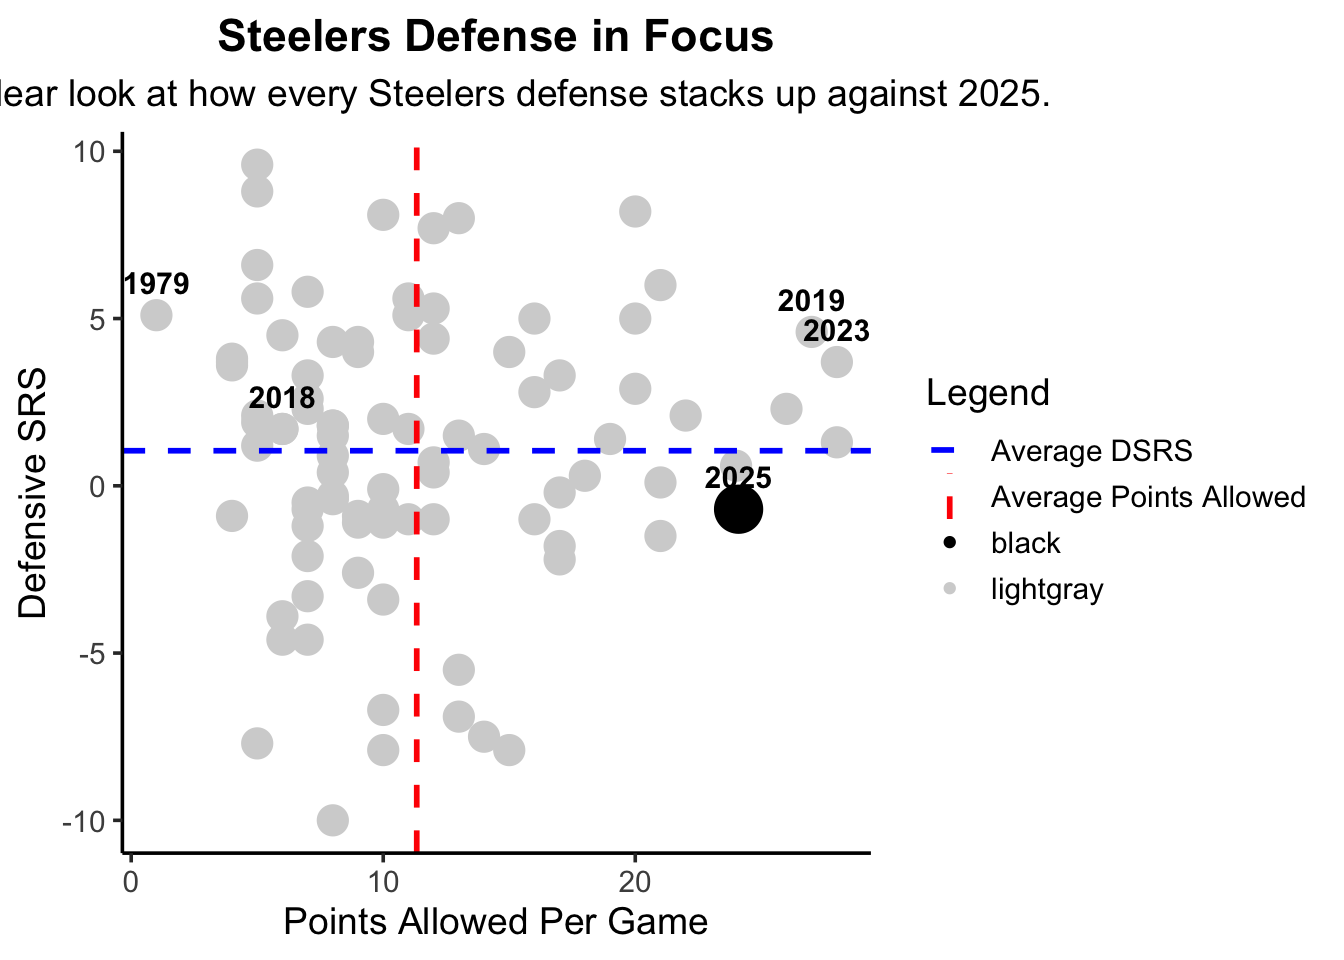
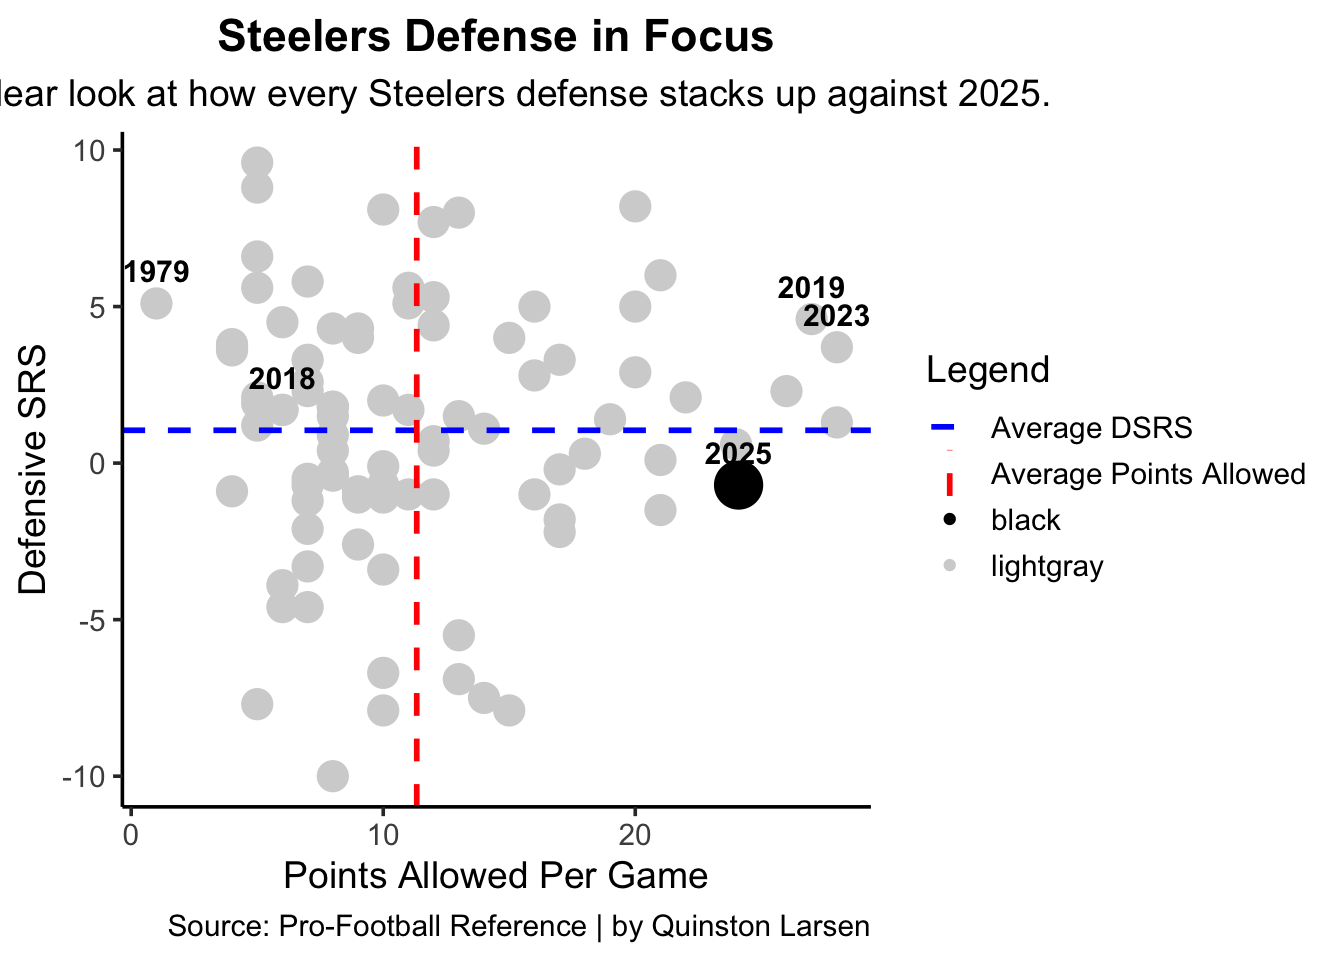
Fixes

diff --git a/posts/Steelers-defense/index.html b/posts/Steelers-defense/index.html
@@ -156,9 +156,9 @@ pre > code.sourceCode > span > a:first-child::before { text-decoration: underlin
     <div class="quarto-title column-body">
       <h1 class="title">When the Steel Curtain Falters: Steelers’ 2025 Defensive Woes</h1>
                                 <div class="quarto-categories">
-                <div class="quarto-category">football</div>
-                <div class="quarto-category">Nebraska</div>
-                <div class="quarto-category">running back</div>
+                <div class="quarto-category">NFL</div>
+                <div class="quarto-category">Steelers</div>
+                <div class="quarto-category">Defense</div>
               </div>
                   </div>
   </div>
@@ -195,7 +195,7 @@ pre > code.sourceCode > span > a:first-child::before { text-decoration: underlin
 
 
 
-<p>Steelers Defense at an All-Time Low? A Deep Dive Through Five Decades of History</p>
+<p>Steelers Defense at an All-Time Low? A Deep Dive Through Five Decades of History.</p>
 <p>For generations, the Pittsburgh Steelers embodied one unmistakable identity: hard-nosed, suffocating defense. It’s the brand that defined the city, the franchise, and the fan base. For years, you didn’t need a superstar quarterback or a flashy offense. If you wore black and gold, you won games by hitting harder, tackling smarter, and outworking everyone on the field.</p>
 <p>But today, something feels different.</p>
 <p>Something feels broken.</p>
@@ -286,19 +286,20 @@ pre > code.sourceCode > span > a:first-child::before { text-decoration: underlin
 <span id="cb2-34"><a href="#cb2-34" aria-hidden="true" tabindex="-1"></a>    <span class="at">title =</span> <span class="st">"Best vs Worst Steelers Defensive Seasons"</span>,</span>
 <span id="cb2-35"><a href="#cb2-35" aria-hidden="true" tabindex="-1"></a>    <span class="at">subtitlte =</span> <span class="st">"Comparing historic dominance with modern struggles."</span>,</span>
 <span id="cb2-36"><a href="#cb2-36" aria-hidden="true" tabindex="-1"></a>    <span class="at">x =</span> <span class="st">"Year"</span>,</span>
-<span id="cb2-37"><a href="#cb2-37" aria-hidden="true" tabindex="-1"></a>    <span class="at">y =</span> <span class="st">"Points Allowed Per Game"</span></span>
-<span id="cb2-38"><a href="#cb2-38" aria-hidden="true" tabindex="-1"></a>  ) <span class="sc">+</span></span>
-<span id="cb2-39"><a href="#cb2-39" aria-hidden="true" tabindex="-1"></a>  </span>
-<span id="cb2-40"><a href="#cb2-40" aria-hidden="true" tabindex="-1"></a>  <span class="fu">theme_classic</span>(<span class="at">base_size =</span> <span class="dv">14</span>) <span class="sc">+</span></span>
-<span id="cb2-41"><a href="#cb2-41" aria-hidden="true" tabindex="-1"></a>  <span class="fu">theme</span>(</span>
-<span id="cb2-42"><a href="#cb2-42" aria-hidden="true" tabindex="-1"></a>    <span class="at">plot.title =</span> <span class="fu">element_text</span>(<span class="at">face =</span> <span class="st">"bold"</span>, <span class="at">hjust =</span> <span class="fl">0.5</span>),</span>
-<span id="cb2-43"><a href="#cb2-43" aria-hidden="true" tabindex="-1"></a>    <span class="at">axis.text.x =</span> <span class="fu">element_text</span>(<span class="at">angle =</span> <span class="dv">45</span>, <span class="at">hjust =</span> <span class="dv">1</span>),</span>
-<span id="cb2-44"><a href="#cb2-44" aria-hidden="true" tabindex="-1"></a>    <span class="at">legend.position =</span> <span class="st">"none"</span>,</span>
-<span id="cb2-45"><a href="#cb2-45" aria-hidden="true" tabindex="-1"></a>    <span class="at">axis.line =</span> <span class="fu">element_line</span>(<span class="at">color =</span> <span class="st">"black"</span>),</span>
-<span id="cb2-46"><a href="#cb2-46" aria-hidden="true" tabindex="-1"></a>    <span class="at">axis.ticks =</span> <span class="fu">element_line</span>(<span class="at">color =</span> <span class="st">"black"</span>)</span>
-<span id="cb2-47"><a href="#cb2-47" aria-hidden="true" tabindex="-1"></a>  )</span>
-<span id="cb2-48"><a href="#cb2-48" aria-hidden="true" tabindex="-1"></a></span>
-<span id="cb2-49"><a href="#cb2-49" aria-hidden="true" tabindex="-1"></a><span class="fu">print</span>(plot_bar)</span></code></pre></div><button title="Copy to Clipboard" class="code-copy-button"><i class="bi"></i></button></div>
+<span id="cb2-37"><a href="#cb2-37" aria-hidden="true" tabindex="-1"></a>    <span class="at">y =</span> <span class="st">"Points Allowed Per Game"</span> ,</span>
+<span id="cb2-38"><a href="#cb2-38" aria-hidden="true" tabindex="-1"></a>    <span class="at">caption =</span> <span class="st">"Source: Pro-Football Reference  | by Quinston Larsen"</span></span>
+<span id="cb2-39"><a href="#cb2-39" aria-hidden="true" tabindex="-1"></a>  ) <span class="sc">+</span></span>
+<span id="cb2-40"><a href="#cb2-40" aria-hidden="true" tabindex="-1"></a>  </span>
+<span id="cb2-41"><a href="#cb2-41" aria-hidden="true" tabindex="-1"></a>  <span class="fu">theme_classic</span>(<span class="at">base_size =</span> <span class="dv">14</span>) <span class="sc">+</span></span>
+<span id="cb2-42"><a href="#cb2-42" aria-hidden="true" tabindex="-1"></a>  <span class="fu">theme</span>(</span>
+<span id="cb2-43"><a href="#cb2-43" aria-hidden="true" tabindex="-1"></a>    <span class="at">plot.title =</span> <span class="fu">element_text</span>(<span class="at">face =</span> <span class="st">"bold"</span>, <span class="at">hjust =</span> <span class="fl">0.5</span>),</span>
+<span id="cb2-44"><a href="#cb2-44" aria-hidden="true" tabindex="-1"></a>    <span class="at">axis.text.x =</span> <span class="fu">element_text</span>(<span class="at">angle =</span> <span class="dv">45</span>, <span class="at">hjust =</span> <span class="dv">1</span>),</span>
+<span id="cb2-45"><a href="#cb2-45" aria-hidden="true" tabindex="-1"></a>    <span class="at">legend.position =</span> <span class="st">"none"</span>,</span>
+<span id="cb2-46"><a href="#cb2-46" aria-hidden="true" tabindex="-1"></a>    <span class="at">axis.line =</span> <span class="fu">element_line</span>(<span class="at">color =</span> <span class="st">"black"</span>),</span>
+<span id="cb2-47"><a href="#cb2-47" aria-hidden="true" tabindex="-1"></a>    <span class="at">axis.ticks =</span> <span class="fu">element_line</span>(<span class="at">color =</span> <span class="st">"black"</span>)</span>
+<span id="cb2-48"><a href="#cb2-48" aria-hidden="true" tabindex="-1"></a>  )</span>
+<span id="cb2-49"><a href="#cb2-49" aria-hidden="true" tabindex="-1"></a></span>
+<span id="cb2-50"><a href="#cb2-50" aria-hidden="true" tabindex="-1"></a><span class="fu">print</span>(plot_bar)</span></code></pre></div><button title="Copy to Clipboard" class="code-copy-button"><i class="bi"></i></button></div>
 </details>
 <div class="cell-output-display">
 <div>
@@ -344,17 +345,18 @@ pre > code.sourceCode > span > a:first-child::before { text-decoration: underlin
 <span id="cb3-26"><a href="#cb3-26" aria-hidden="true" tabindex="-1"></a>    <span class="at">subtitle =</span> <span class="st">"A detailed look at the Pittsburgh's Defensive Simple Rating System"</span>,</span>
 <span id="cb3-27"><a href="#cb3-27" aria-hidden="true" tabindex="-1"></a>    <span class="at">x =</span> <span class="st">"Year"</span>,</span>
 <span id="cb3-28"><a href="#cb3-28" aria-hidden="true" tabindex="-1"></a>    <span class="at">y =</span> <span class="st">"Defensive Simple Rating System Score"</span>,</span>
-<span id="cb3-29"><a href="#cb3-29" aria-hidden="true" tabindex="-1"></a>    <span class="at">color =</span> <span class="st">"Team"</span></span>
-<span id="cb3-30"><a href="#cb3-30" aria-hidden="true" tabindex="-1"></a>  ) <span class="sc">+</span></span>
-<span id="cb3-31"><a href="#cb3-31" aria-hidden="true" tabindex="-1"></a>  </span>
-<span id="cb3-32"><a href="#cb3-32" aria-hidden="true" tabindex="-1"></a>  <span class="fu">theme_classic</span>(<span class="at">base_size =</span> <span class="dv">14</span>) <span class="sc">+</span></span>
-<span id="cb3-33"><a href="#cb3-33" aria-hidden="true" tabindex="-1"></a>  <span class="fu">theme</span>(</span>
-<span id="cb3-34"><a href="#cb3-34" aria-hidden="true" tabindex="-1"></a>    <span class="at">plot.title =</span> <span class="fu">element_text</span>(<span class="at">face =</span> <span class="st">"bold"</span>, <span class="at">hjust =</span> <span class="fl">0.5</span>),</span>
-<span id="cb3-35"><a href="#cb3-35" aria-hidden="true" tabindex="-1"></a>    <span class="at">plot.subtitle =</span> <span class="fu">element_text</span>(<span class="at">hjust =</span> <span class="fl">0.5</span>),</span>
-<span id="cb3-36"><a href="#cb3-36" aria-hidden="true" tabindex="-1"></a>    <span class="at">axis.text.x =</span> <span class="fu">element_text</span>(<span class="at">angle =</span> <span class="dv">45</span>, <span class="at">hjust =</span> <span class="dv">1</span>)</span>
-<span id="cb3-37"><a href="#cb3-37" aria-hidden="true" tabindex="-1"></a>  )</span>
-<span id="cb3-38"><a href="#cb3-38" aria-hidden="true" tabindex="-1"></a></span>
-<span id="cb3-39"><a href="#cb3-39" aria-hidden="true" tabindex="-1"></a><span class="fu">print</span>(plot_line)</span></code></pre></div><button title="Copy to Clipboard" class="code-copy-button"><i class="bi"></i></button></div>
+<span id="cb3-29"><a href="#cb3-29" aria-hidden="true" tabindex="-1"></a>    <span class="at">color =</span> <span class="st">"Team"</span> ,</span>
+<span id="cb3-30"><a href="#cb3-30" aria-hidden="true" tabindex="-1"></a>    <span class="at">caption =</span> <span class="st">"Source: Pro-Football Reference  | by Quinston Larsen"</span></span>
+<span id="cb3-31"><a href="#cb3-31" aria-hidden="true" tabindex="-1"></a>  ) <span class="sc">+</span></span>
+<span id="cb3-32"><a href="#cb3-32" aria-hidden="true" tabindex="-1"></a>  </span>
+<span id="cb3-33"><a href="#cb3-33" aria-hidden="true" tabindex="-1"></a>  <span class="fu">theme_classic</span>(<span class="at">base_size =</span> <span class="dv">14</span>) <span class="sc">+</span></span>
+<span id="cb3-34"><a href="#cb3-34" aria-hidden="true" tabindex="-1"></a>  <span class="fu">theme</span>(</span>
+<span id="cb3-35"><a href="#cb3-35" aria-hidden="true" tabindex="-1"></a>    <span class="at">plot.title =</span> <span class="fu">element_text</span>(<span class="at">face =</span> <span class="st">"bold"</span>, <span class="at">hjust =</span> <span class="fl">0.5</span>),</span>
+<span id="cb3-36"><a href="#cb3-36" aria-hidden="true" tabindex="-1"></a>    <span class="at">plot.subtitle =</span> <span class="fu">element_text</span>(<span class="at">hjust =</span> <span class="fl">0.5</span>),</span>
+<span id="cb3-37"><a href="#cb3-37" aria-hidden="true" tabindex="-1"></a>    <span class="at">axis.text.x =</span> <span class="fu">element_text</span>(<span class="at">angle =</span> <span class="dv">45</span>, <span class="at">hjust =</span> <span class="dv">1</span>)</span>
+<span id="cb3-38"><a href="#cb3-38" aria-hidden="true" tabindex="-1"></a>  )</span>
+<span id="cb3-39"><a href="#cb3-39" aria-hidden="true" tabindex="-1"></a></span>
+<span id="cb3-40"><a href="#cb3-40" aria-hidden="true" tabindex="-1"></a><span class="fu">print</span>(plot_line)</span></code></pre></div><button title="Copy to Clipboard" class="code-copy-button"><i class="bi"></i></button></div>
 </details>
 <div class="cell-output-display">
 <div>
@@ -408,15 +410,16 @@ pre > code.sourceCode > span > a:first-child::before { text-decoration: underlin
 <span id="cb4-35"><a href="#cb4-35" aria-hidden="true" tabindex="-1"></a>    <span class="at">subtitle =</span> <span class="st">"A clear look at how every Steelers defense stacks up against 2025."</span>,</span>
 <span id="cb4-36"><a href="#cb4-36" aria-hidden="true" tabindex="-1"></a>    <span class="at">x =</span> <span class="st">"Points Allowed Per Game"</span>,</span>
 <span id="cb4-37"><a href="#cb4-37" aria-hidden="true" tabindex="-1"></a>    <span class="at">y =</span> <span class="st">"Defensive SRS"</span>,</span>
-<span id="cb4-38"><a href="#cb4-38" aria-hidden="true" tabindex="-1"></a>    <span class="at">color =</span> <span class="st">"Legend"</span></span>
-<span id="cb4-39"><a href="#cb4-39" aria-hidden="true" tabindex="-1"></a>  ) <span class="sc">+</span></span>
-<span id="cb4-40"><a href="#cb4-40" aria-hidden="true" tabindex="-1"></a>  </span>
-<span id="cb4-41"><a href="#cb4-41" aria-hidden="true" tabindex="-1"></a>  <span class="fu">theme_classic</span>(<span class="at">base_size =</span> <span class="dv">14</span>) <span class="sc">+</span></span>
-<span id="cb4-42"><a href="#cb4-42" aria-hidden="true" tabindex="-1"></a>  <span class="fu">theme</span>(</span>
-<span id="cb4-43"><a href="#cb4-43" aria-hidden="true" tabindex="-1"></a>    <span class="at">plot.title =</span> <span class="fu">element_text</span>(<span class="at">face =</span> <span class="st">"bold"</span>, <span class="at">hjust =</span> <span class="fl">0.5</span>),</span>
-<span id="cb4-44"><a href="#cb4-44" aria-hidden="true" tabindex="-1"></a>    <span class="at">plot.subtitle =</span> <span class="fu">element_text</span>(<span class="at">hjust =</span> <span class="fl">0.5</span>)</span>
-<span id="cb4-45"><a href="#cb4-45" aria-hidden="true" tabindex="-1"></a>  )</span>
-<span id="cb4-46"><a href="#cb4-46" aria-hidden="true" tabindex="-1"></a><span class="fu">print</span>(scatter_chart_all)</span></code></pre></div><button title="Copy to Clipboard" class="code-copy-button"><i class="bi"></i></button></div>
+<span id="cb4-38"><a href="#cb4-38" aria-hidden="true" tabindex="-1"></a>    <span class="at">color =</span> <span class="st">"Legend"</span> , </span>
+<span id="cb4-39"><a href="#cb4-39" aria-hidden="true" tabindex="-1"></a>    <span class="at">caption =</span> <span class="st">"Source: Pro-Football Reference | by Quinston Larsen"</span></span>
+<span id="cb4-40"><a href="#cb4-40" aria-hidden="true" tabindex="-1"></a>  ) <span class="sc">+</span></span>
+<span id="cb4-41"><a href="#cb4-41" aria-hidden="true" tabindex="-1"></a>  </span>
+<span id="cb4-42"><a href="#cb4-42" aria-hidden="true" tabindex="-1"></a>  <span class="fu">theme_classic</span>(<span class="at">base_size =</span> <span class="dv">14</span>) <span class="sc">+</span></span>
+<span id="cb4-43"><a href="#cb4-43" aria-hidden="true" tabindex="-1"></a>  <span class="fu">theme</span>(</span>
+<span id="cb4-44"><a href="#cb4-44" aria-hidden="true" tabindex="-1"></a>    <span class="at">plot.title =</span> <span class="fu">element_text</span>(<span class="at">face =</span> <span class="st">"bold"</span>, <span class="at">hjust =</span> <span class="fl">0.5</span>),</span>
+<span id="cb4-45"><a href="#cb4-45" aria-hidden="true" tabindex="-1"></a>    <span class="at">plot.subtitle =</span> <span class="fu">element_text</span>(<span class="at">hjust =</span> <span class="fl">0.5</span>)</span>
+<span id="cb4-46"><a href="#cb4-46" aria-hidden="true" tabindex="-1"></a>  )</span>
+<span id="cb4-47"><a href="#cb4-47" aria-hidden="true" tabindex="-1"></a><span class="fu">print</span>(scatter_chart_all)</span></code></pre></div><button title="Copy to Clipboard" class="code-copy-button"><i class="bi"></i></button></div>
 </details>
 <div class="cell-output-display">
 <div>

diff --git a/index.html b/index.html
@@ -195,7 +195,7 @@ window.Quarto = {
 <!-- margin-sidebar -->
     <div id="quarto-margin-sidebar" class="sidebar margin-sidebar">
         
-    <h5 class="quarto-listing-category-title">Categories</h5><div class="quarto-listing-category category-default"><div class="category" data-category="">All <span class="quarto-category-count">(2)</span></div><div class="category" data-category="Zm9vdGJhbGw=">football <span class="quarto-category-count">(2)</span></div><div class="category" data-category="TmVicmFza2E=">Nebraska <span class="quarto-category-count">(2)</span></div><div class="category" data-category="cnVubmluZyUyMGJhY2s=">running back <span class="quarto-category-count">(2)</span></div></div></div>
+    <h5 class="quarto-listing-category-title">Categories</h5><div class="quarto-listing-category category-default"><div class="category" data-category="">All <span class="quarto-category-count">(2)</span></div><div class="category" data-category="RGVmZW5zZQ==">Defense <span class="quarto-category-count">(1)</span></div><div class="category" data-category="Zm9vdGJhbGw=">football <span class="quarto-category-count">(1)</span></div><div class="category" data-category="TmVicmFza2E=">Nebraska <span class="quarto-category-count">(1)</span></div><div class="category" data-category="TkZM">NFL <span class="quarto-category-count">(1)</span></div><div class="category" data-category="cnVubmluZyUyMGJhY2s=">running back <span class="quarto-category-count">(1)</span></div><div class="category" data-category="U3RlZWxlcnM=">Steelers <span class="quarto-category-count">(1)</span></div></div></div>
 <!-- main -->
 <main class="content quarto-banner-title-block column-page-left" id="quarto-document-content">
 
@@ -209,7 +209,7 @@ window.Quarto = {
 
 <div class="quarto-listing quarto-listing-container-default" id="listing-listing">
 <div class="list quarto-listing-default">
-<div class="quarto-post image-right" data-index="0" data-categories="Zm9vdGJhbGwlMkNOZWJyYXNrYSUyQ3J1bm5pbmclMjBiYWNr" data-listing-date-sort="1765173600000" data-listing-file-modified-sort="1765224057490" data-listing-date-modified-sort="NaN" data-listing-reading-time-sort="10" data-listing-word-count-sort="1956">
+<div class="quarto-post image-right" data-index="0" data-categories="TkZMJTJDU3RlZWxlcnMlMkNEZWZlbnNl" data-listing-date-sort="1765173600000" data-listing-file-modified-sort="1765224368024" data-listing-date-modified-sort="NaN" data-listing-reading-time-sort="10" data-listing-word-count-sort="1998">
 <div class="thumbnail"><a href="./posts/Steelers-defense/index.html" class="no-external">
 
 <img loading="lazy" src="./posts/Steelers-defense/image.png" class="thumbnail-image">
@@ -221,15 +221,15 @@ window.Quarto = {
 </h3>
 <div class="listing-categories">
 
-<div class="listing-category" onclick="window.quartoListingCategory('Zm9vdGJhbGw='); return false;">football</div>
+<div class="listing-category" onclick="window.quartoListingCategory('TkZM'); return false;">NFL</div>
 
-<div class="listing-category" onclick="window.quartoListingCategory('TmVicmFza2E='); return false;">Nebraska</div>
+<div class="listing-category" onclick="window.quartoListingCategory('U3RlZWxlcnM='); return false;">Steelers</div>
 
-<div class="listing-category" onclick="window.quartoListingCategory('cnVubmluZyUyMGJhY2s='); return false;">running back</div>
+<div class="listing-category" onclick="window.quartoListingCategory('RGVmZW5zZQ=='); return false;">Defense</div>
 
 </div>
 <div class="delink listing-description"><a href="./posts/Steelers-defense/index.html" class="no-external">
-Steelers Defense at an All-Time Low? A Deep Dive Through Five Decades of History
+Steelers Defense at an All-Time Low? A Deep Dive Through Five Decades of History.
 </a></div>
 </div>
 <div class="metadata">
